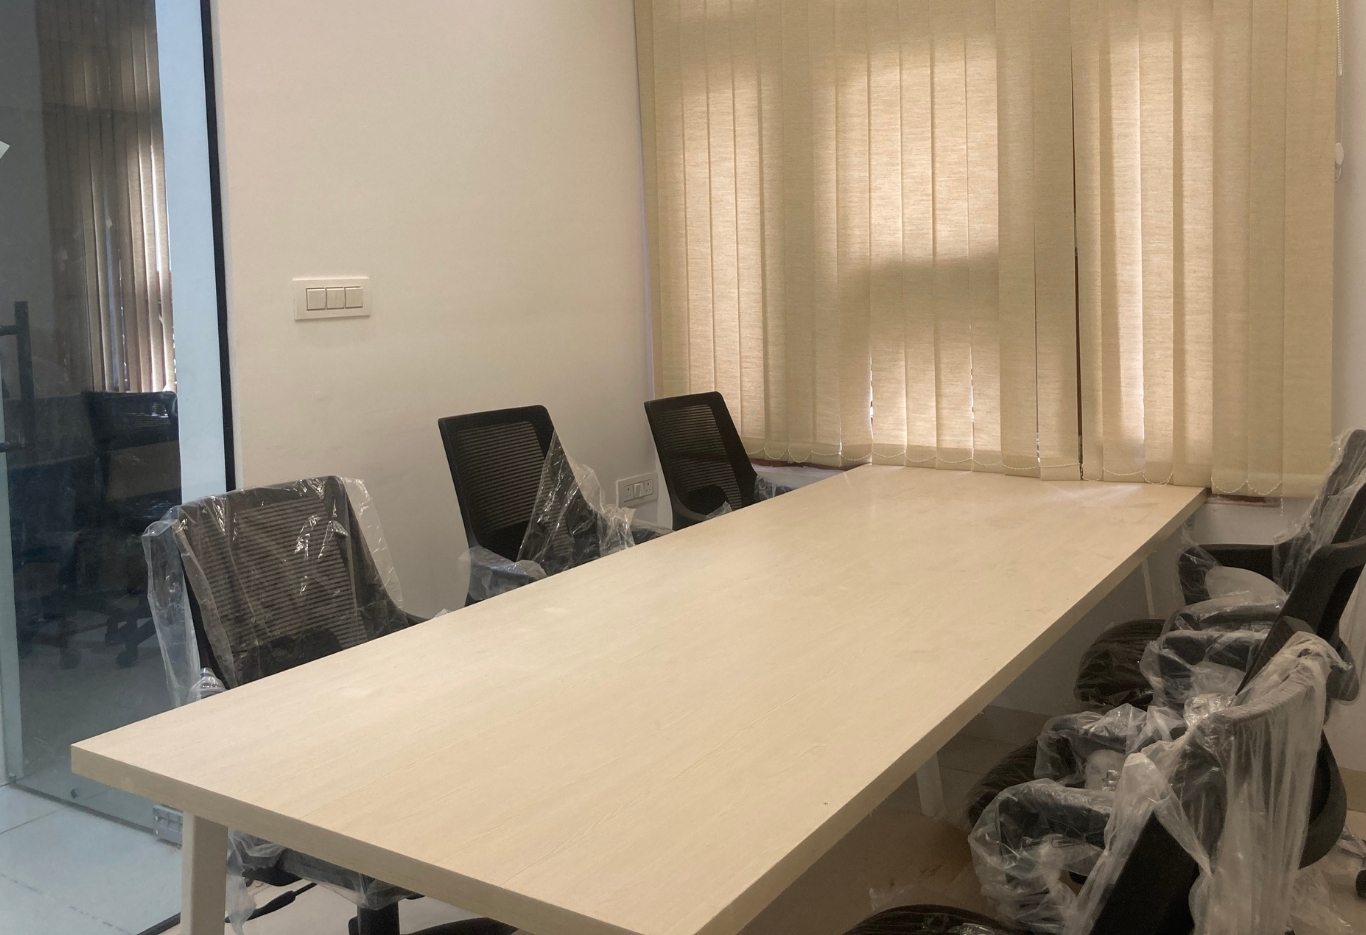
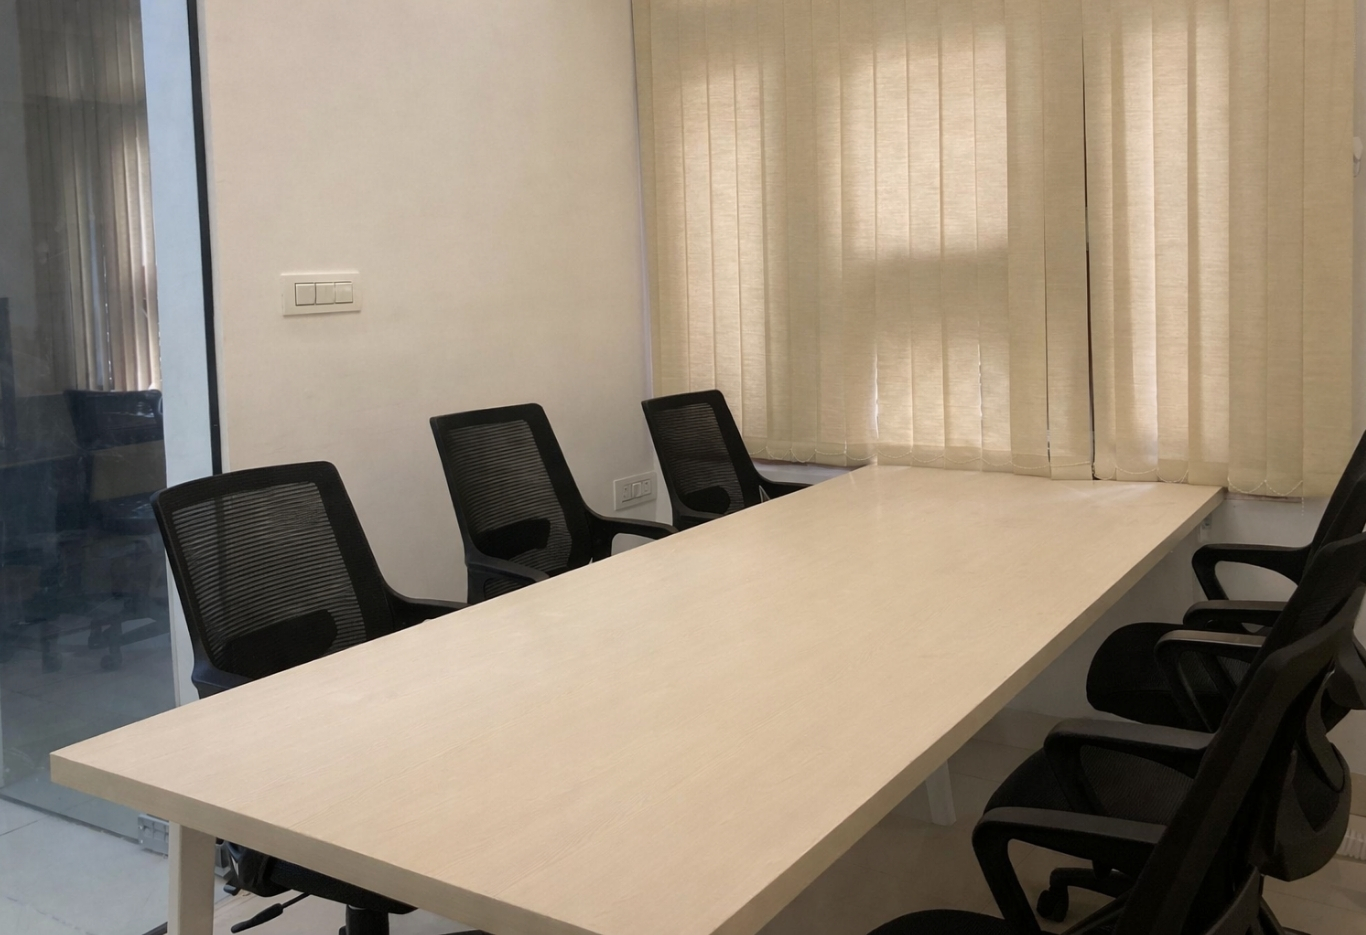
added hr imgs

diff --git a/location-hoshangabad.html b/location-hoshangabad.html
@@ -245,6 +245,9 @@ src="https://www.facebook.com/tr?id=26272972155656765&ev=PageView&noscript=1"
             <img src="assets/images/Hoshangabad Road/3.jpg" alt="HR3" class="slider-image absolute inset-0 w-full h-full object-cover transition-transform duration-1000 ease-in-out translate-x-full z-10">
             <img src="assets/images/Hoshangabad Road/4.jpg" alt="HR4" class="slider-image absolute inset-0 w-full h-full object-cover transition-transform duration-1000 ease-in-out translate-x-full z-10">
             <img src="assets/images/Hoshangabad Road/5.jpg" alt="HR5" class="slider-image absolute inset-0 w-full h-full object-cover transition-transform duration-1000 ease-in-out translate-x-full z-10">
+            <img src="assets/images/Hoshangabad Road/6.jpg" alt="HR6" class="slider-image absolute inset-0 w-full h-full object-cover transition-transform duration-1000 ease-in-out translate-x-full z-10">
+            <img src="assets/images/Hoshangabad Road/7.jpg" alt="HR7" class="slider-image absolute inset-0 w-full h-full object-cover transition-transform duration-1000 ease-in-out translate-x-full z-10">
+            <img src="assets/images/Hoshangabad Road/8.jpg" alt="HR8" class="slider-image absolute inset-0 w-full h-full object-cover transition-transform duration-1000 ease-in-out translate-x-full z-10">
 
             <div class="absolute inset-0 bg-black/0 z-30"></div>
         </div>
